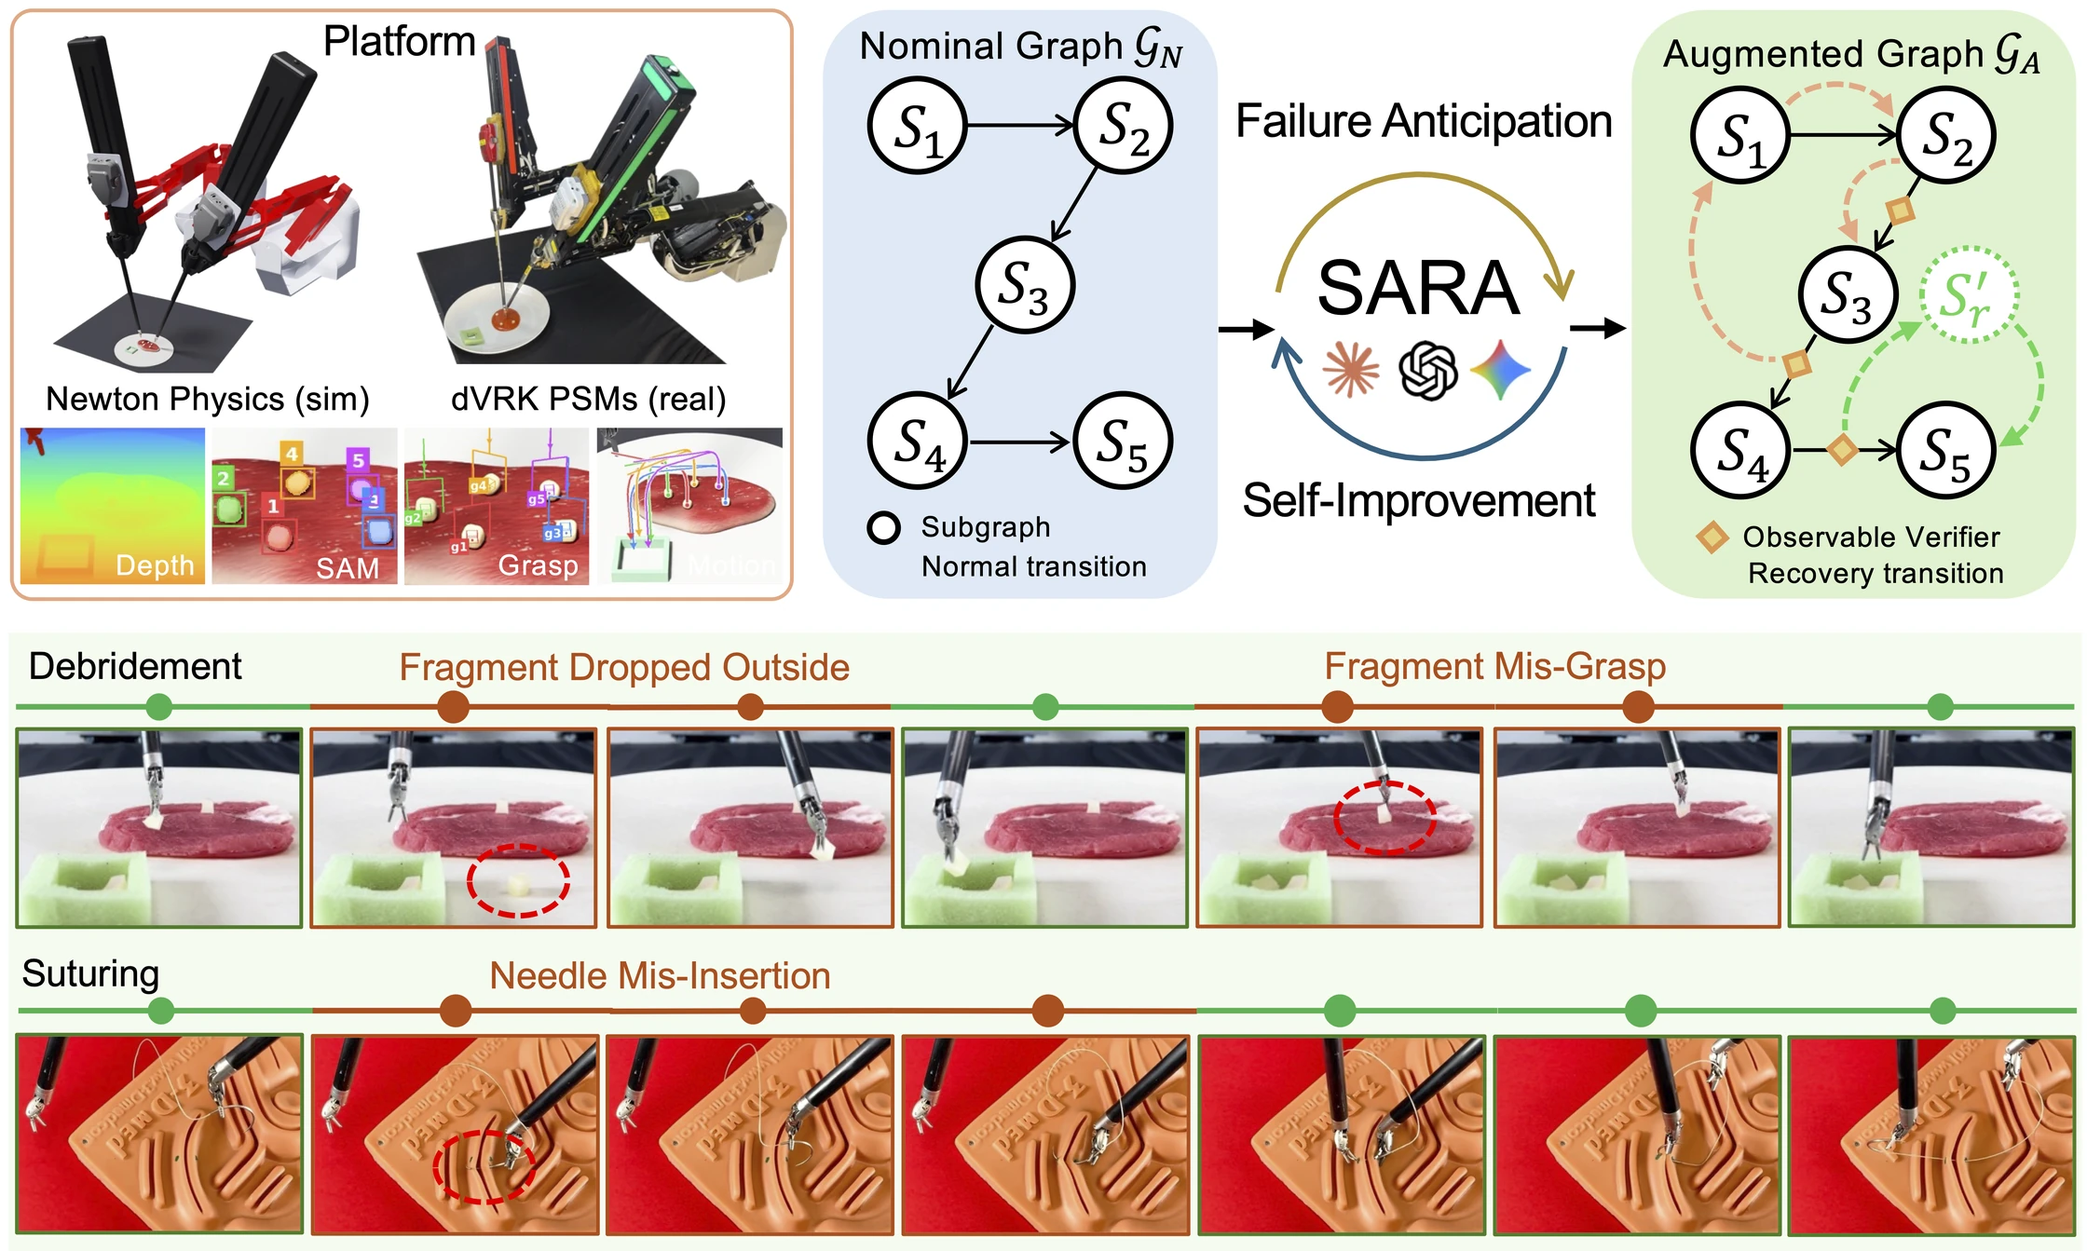
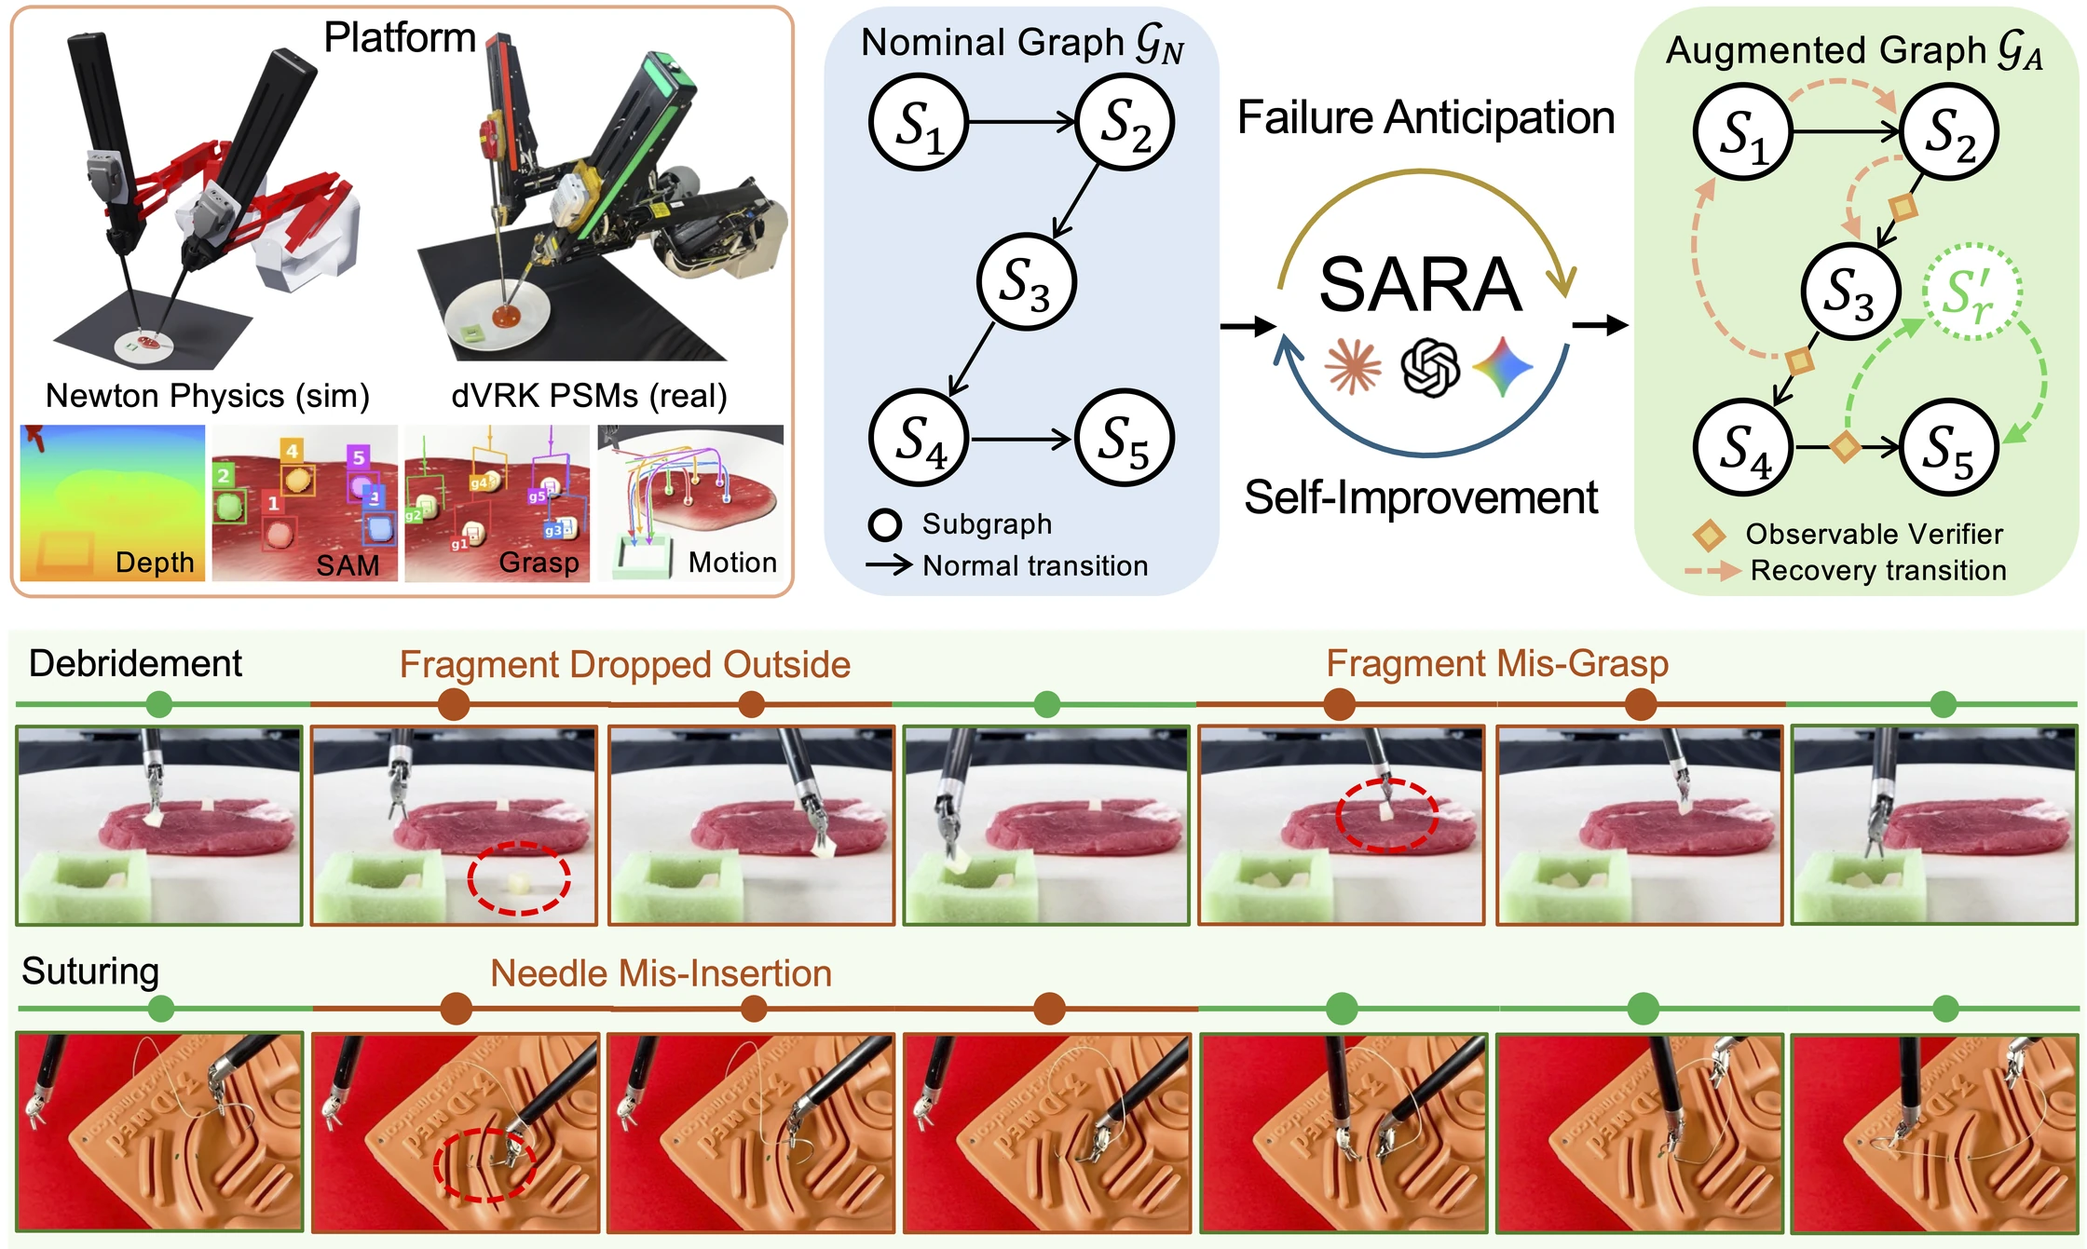
Update overview figure and refine website labels

diff --git a/index.html b/index.html
@@ -14,18 +14,18 @@
 <meta property="og:title" content="SARA: Toward Surgical Agentic Robotics for Resilient Manipulation">
 <meta property="og:description" content="SARA anticipates failure modes, synthesizes observable verifiers, and plans recovery chains for resilient surgical manipulation in simulation and on the physical dVRK platform.">
 <meta property="og:url" content="https://surgical-robotics.github.io/SARA/">
-<meta property="og:image" content="https://surgical-robotics.github.io/SARA/static/images/abstract.png?v=8a751f449e7c">
+<meta property="og:image" content="https://surgical-robotics.github.io/SARA/static/images/abstract.png?v=ab034c97456b">
 <meta name="twitter:card" content="summary_large_image">
 <meta name="twitter:title" content="SARA: Toward Surgical Agentic Robotics for Resilient Manipulation">
 <meta name="twitter:description" content="SARA anticipates failure modes, synthesizes observable verifiers, and plans recovery chains for resilient surgical manipulation in simulation and on the physical dVRK platform.">
-<meta name="twitter:image" content="https://surgical-robotics.github.io/SARA/static/images/abstract.png?v=8a751f449e7c">
+<meta name="twitter:image" content="https://surgical-robotics.github.io/SARA/static/images/abstract.png?v=ab034c97456b">
 <meta name="citation_title" content="SARA: Toward Surgical Agentic Robotics for Resilient Manipulation">
 <!-- Add confirmed authors, venue, paper URL, and final BibTeX when available. -->
-<link rel="stylesheet" href="static/css/index.css?v=state-panels-30">
+<link rel="stylesheet" href="static/css/index.css?v=active-group-nav-31">
 <script defer src="static/js/index.js?v=eager-buffer-visible-playback-7"></script>
 <script defer src="static/js/video-states.js?v=deferred-sources-12"></script>
 <script defer src="static/js/media-controls.js?v=6"></script>
-<script type="application/ld+json">{"@context": "https://schema.org", "@type": "ScholarlyArticle", "headline": "SARA: Toward Surgical Agentic Robotics for Resilient Manipulation", "description": "SARA anticipates failure modes, synthesizes observable verifiers, and plans recovery chains for resilient surgical manipulation in simulation and on the physical dVRK platform.", "url": "https://surgical-robotics.github.io/SARA/", "image": "https://surgical-robotics.github.io/SARA/static/images/abstract.png?v=8a751f449e7c"}</script>
+<script type="application/ld+json">{"@context": "https://schema.org", "@type": "ScholarlyArticle", "headline": "SARA: Toward Surgical Agentic Robotics for Resilient Manipulation", "description": "SARA anticipates failure modes, synthesizes observable verifiers, and plans recovery chains for resilient surgical manipulation in simulation and on the physical dVRK platform.", "url": "https://surgical-robotics.github.io/SARA/", "image": "https://surgical-robotics.github.io/SARA/static/images/abstract.png?v=ab034c97456b"}</script>
 </head>
 <body>
 <div class="reading-progress" aria-hidden="true"><span></span></div>
@@ -41,7 +41,7 @@
     <h1><span class="hero-name">SARA<span class="visually-hidden">:</span></span> <span class="hero-title">Toward Surgical Agentic Robotics for Resilient Manipulation</span></h1>
     <ul class="hero-tags" aria-label="SARA highlights">
       <li>Surgical agentic robotics</li>
-      <li>Sim-to-real</li>
+      <li>Real-to-sim-to-real</li>
       <li><strong>8</strong> simulation tasks</li>
       <li><strong>6</strong> real-world tasks</li>
     </ul>
@@ -52,7 +52,7 @@
 <section class="section overview" id="abstract"><div class="container">
 <div class="section-heading"><h2>Abstract</h2></div>
 <div class="abstract-copy"><p>Augmented dexterity promises to relieve surgeon workload and improve surgical performance, yet it still requires expert algorithmic engineering for each manipulation task. Can emerging coding agents deliver augmented dexterity across tasks, while remaining reliable under failure? In this work, we introduce SARA (Surgical Agent for Resilient Autonomy), an agentic surgical robotics framework that executes diverse manipulation tasks autonomously and resiliently. Given a nominal task graph composed of reusable surgical skills, SARA proactively anticipates how the skills may fail and induces those failures in a physics-based sandbox. From the induced and naturally occurring failures, it writes observable verifiers for the skills and proposes failure-specific recovery strategies, either by re-executing upstream skills of the nominal graph or by escalating to the broader skill library. SARA then rehearses the candidate augmented graph in the sandbox, refining the ineffective strategies in a self-improvement loop, and retains only the validated verifiers and recoveries in the final augmented graph. We evaluate SARA on 8 surgical tasks in Newton-based simulation and 6 tasks on a physical da Vinci robot.</p></div>
-<figure class="research-figure"><button class="figure-zoom" type="button" data-image="static/images/abstract.png?v=8a751f449e7c" aria-label="Enlarge SARA system overview"><img src="static/images/abstract-1120.webp?v=fb67f9fc65f9" srcset="static/images/abstract-1120.webp?v=fb67f9fc65f9 1120w, static/images/abstract-2240.webp?v=946125c9c0fd 2240w" sizes="(max-width: 760px) calc(100vw - 36px), (max-width: 1184px) calc(100vw - 64px), 1120px" alt="SARA system overview: a nominal surgical skill graph is augmented with observable verifiers and recovery chains through failure anticipation and self-improvement in the Newton dVRK sandbox. Debridement and suturing sequences show recovery from dropped fragments, missed grasps, and needle insertion failures on the physical robot." width="2240" height="1343" loading="eager" fetchpriority="high" decoding="async"><span class="zoom-hint">Enlarge figure ↗</span></button><figcaption><strong>SARA surgical agentic system overview.</strong> Starting from a nominal graph <math aria-label="G subscript N"><msub><mi>𝒢</mi><mi>N</mi></msub></math> of reusable surgical skills, SARA proactively anticipates failure modes, synthesizes observable verifiers, and plans corresponding recovery chains to construct an augmented directed graph <math aria-label="G subscript A"><msub><mi>𝒢</mi><mi>A</mi></msub></math>. Through iterative self-improvement and validation in a Newton physics-based dVRK sandbox, SARA retains validated verifiers and recovery chains before deploying the augmented graph on the physical dVRK platform for resilient task execution. The debridement and suturing sequences illustrate recovery from dropped fragments, missed grasps, and needle insertion failures.</figcaption></figure>
+<figure class="research-figure"><button class="figure-zoom" type="button" data-image="static/images/abstract.png?v=ab034c97456b" aria-label="Enlarge SARA system overview"><img src="static/images/abstract-1120.webp?v=a1dda1146ae0" srcset="static/images/abstract-1120.webp?v=a1dda1146ae0 1120w, static/images/abstract-2240.webp?v=b459b93bd007 2240w" sizes="(max-width: 760px) calc(100vw - 36px), (max-width: 1184px) calc(100vw - 64px), 1120px" alt="SARA system overview: a nominal surgical skill graph is augmented with observable verifiers and recovery chains through failure anticipation and self-improvement in the Newton dVRK sandbox. Debridement and suturing sequences show recovery from dropped fragments, missed grasps, and needle insertion failures on the physical robot." width="2240" height="1341" loading="eager" fetchpriority="high" decoding="async"><span class="zoom-hint">Enlarge figure ↗</span></button><figcaption><strong>SARA surgical agentic system overview.</strong> Starting from a nominal graph <math aria-label="G subscript N"><msub><mi>𝒢</mi><mi>N</mi></msub></math> of reusable surgical skills, SARA proactively anticipates failure modes, synthesizes observable verifiers, and plans corresponding recovery chains to construct an augmented directed graph <math aria-label="G subscript A"><msub><mi>𝒢</mi><mi>A</mi></msub></math>. Through iterative self-improvement and validation in a Newton physics-based dVRK sandbox, SARA retains validated verifiers and recovery chains before deploying the augmented graph on the physical dVRK platform for resilient task execution. The debridement and suturing sequences illustrate recovery from dropped fragments, missed grasps, and needle insertion failures.</figcaption></figure>
 </div></section>
 <section class="section method-section" id="method"><div class="container">
 <p class="method-question">Can emerging coding agents deliver augmented dexterity across diverse surgical tasks and remain reliable when failures occur?</p>
@@ -60,7 +60,7 @@
 <figure class="research-figure"><button class="figure-zoom" type="button" data-image="static/images/sara_pipeline.png" aria-label="Enlarge the SARA method pipeline"><img src="static/images/sara_pipeline.png" alt="SARA agentic harness: Failure Anticipation and Recovery Chain agents augment a nominal task graph using natural and induced Newton rollouts, validate observable verifiers against privileged oracles, and refine recovery chains to produce the final augmented graph." width="2907" height="1441" loading="lazy" decoding="async"><span class="zoom-hint">Enlarge figure ↗</span></button><figcaption><strong>SARA:</strong> Two specialized agents coordinate the augmentation and refinement of a nominal task graph <math aria-label="G subscript N"><msub><mi>𝒢</mi><mi>N</mi></msub></math>. During <em>SARA Augmentation</em>, the <em>Failure Anticipation</em> agent proposes skill-level failure modes and actions to induce them in the Newton sandbox. The <em>Recovery Chain</em> agent analyzes natural and induced rollouts, synthesizes observable verifiers evaluated against privileged oracles, and proposes candidate recovery chains, yielding a candidate augmented graph <math aria-label="G subscript A star"><msubsup><mi>𝒢</mi><mi>A</mi><mo>∗</mo></msubsup></math>. During <em>SARA Refinement</em>, the candidate graph is rehearsed in the sandbox, and ineffective recovery chains are iteratively revised by tracing upstream skills and tuning adjustable parameters. Only validated verifiers and recovery chains are retained in the final augmented graph <math aria-label="G subscript A"><msub><mi>𝒢</mi><mi>A</mi></msub></math> for task execution with failure recovery.</figcaption></figure>
 </div></section>
 <section class="section results-section" id="simulation"><div class="container">
-<div class="section-heading"><h2>Simulation</h2><p>Eight surgical tasks in the Newton physics-based sandbox.</p></div>
+<div class="section-heading"><h2>Simulation</h2><p>Eight surgical tasks in Newton-based simulation.</p></div>
 <nav class="gallery-nav" aria-label="Simulation demonstrations"><a href="#sim-tasks" data-category="normal"><span class="nav-mark"><span class="nav-index">1</span><img class="nav-icon" src="static/images/group-normal.svg?v=simple-2" width="32" height="32" alt="" aria-hidden="true"></span> <span>Normal Execution</span></a><a href="#sim-recovery" data-category="recovery"><span class="nav-mark"><span class="nav-index">2</span><img class="nav-icon" src="static/images/group-recovery.svg?v=amber-red-3" width="32" height="32" alt="" aria-hidden="true"></span> <span>Failure Recovery</span></a></nav>
 <section class="results-group" data-category="normal" id="sim-tasks" aria-labelledby="sim-tasks-title">
  <div class="group-heading"><h3 id="sim-tasks-title"><span class="group-index">1</span> <span>Normal Execution</span></h3><div class="state-legend" role="group" aria-label="Video phase legend"><span><i class="legend-dot normal" aria-hidden="true"></i>Normal Execution</span></div></div>

diff --git a/static/css/index.css b/static/css/index.css
@@ -70,13 +70,13 @@ h3 { line-height: 1.25; letter-spacing: -.025em; }
 .method-question { width: 100%; margin-bottom: 48px; padding-bottom: 40px; border-bottom: 1px solid var(--line); font-size: clamp(24px, 3vw, 34px); font-style: italic; font-weight: 400; line-height: 1.45; text-align: justify; text-align-last: left; }
 /* Each gallery has a local phase legend; the videos retain synchronized labels. */
 .gallery-nav { position: sticky; top: 72px; z-index: 20; display: flex; align-items: stretch; gap: 10px; padding: 7px 0; background: var(--paper); border-block: 1px solid var(--line); min-height: 70px; }
-.gallery-nav a { display: flex; flex: 1; min-width: 0; align-items: center; justify-content: center; gap: 10px; min-height: 54px; padding: 10px 14px; border: 1px solid var(--nav-outline); border-radius: 6px; background: var(--group-bg); font-size: 15px; font-weight: 550; line-height: 1.4; text-align: center; transition: background .2s, color .2s, box-shadow .2s; }
-.gallery-nav a:hover { background: var(--nav-active-bg); }
-.gallery-nav a[aria-current] { color: var(--group-ink, var(--group-accent)); background: var(--nav-active-bg); box-shadow: inset 0 -3px var(--group-accent); }
+.gallery-nav a { display: flex; flex: 1; min-width: 0; align-items: center; justify-content: center; gap: 10px; min-height: 54px; padding: 10px 14px; border: 1px solid var(--line); border-radius: 6px; background: var(--white); color: var(--muted); font-size: 15px; font-weight: 550; line-height: 1.4; text-align: center; transition: background .2s, color .2s, border-color .2s, box-shadow .2s; }
+.gallery-nav a:hover { background: #f4f6f4; color: var(--ink); }
+.gallery-nav a[aria-current] { color: var(--group-ink, var(--group-accent)); border-color: var(--nav-outline); background: var(--nav-active-bg); box-shadow: inset 0 -3px var(--group-accent); }
 .nav-mark { display: inline-flex; flex-shrink: 0; align-items: center; gap: 8px; }
-.nav-icon { width: 32px; height: 32px; }
-.nav-index { flex-shrink: 0; color: var(--group-ink, var(--group-accent)); font-weight: 650; font-variant-numeric: tabular-nums; }
-.gallery-nav a[aria-current] .nav-index { color: inherit; }
+.nav-icon { width: 32px; height: 32px; filter: grayscale(1); opacity: .6; }
+.nav-index { flex-shrink: 0; color: inherit; font-weight: 650; font-variant-numeric: tabular-nums; }
+.gallery-nav a[aria-current] .nav-icon { filter: none; opacity: 1; }
 .results-group { --group-bg: transparent; position: relative; isolation: isolate; scroll-margin-top: 68px; padding-top: 36px; }
 .results-group[data-category="normal"], .gallery-nav a[data-category="normal"] { --group-bg: #fafdfb; --group-accent: var(--green); --nav-outline: #dbe9e0; --nav-active-bg: var(--normal-bg); }
 .results-group[data-category="recovery"], .gallery-nav a[data-category="recovery"] { --group-bg: #fffdf7; --group-accent: var(--amber); --group-ink: var(--recovery-ink); --nav-outline: #eddfc7; --nav-active-bg: var(--recovery-bg); }

diff --git a/README.md b/README.md
@@ -68,7 +68,7 @@ and a public repository exposes its tracked media files.
 The page uses an editorial layout with white backgrounds, dark green typography,
 and green/amber/red phase colors. The text-only hero emphasizes the project
 name and full title, followed by four rounded keyword labels: Surgical agentic
-robotics, Sim-to-real, 8 simulation tasks, and 6 real-world tasks. Overview and Method retain the supplied scientific
+robotics, Real-to-sim-to-real, 8 simulation tasks, and 6 real-world tasks. Overview and Method retain the supplied scientific
 figures; no additional method diagram or interactive stepper is shown.
 
 The visible hero wordmark omits the colon; the complete title retains it in
@@ -84,12 +84,15 @@ Abstract and Method. Gallery numbering restarts within each section: Simulation
 uses 1 Normal Execution and 2 Failure Recovery; Real-world experiments uses
 1 Normal Execution, 2 Failure Recovery, and 3 External Disturbance. Compact
 number badges also appear in the group headings, with matching numbers in the
-sticky gallery navigation. Each link always carries its category's pale background,
-colored number, and a simple circular icon: a green check for normal execution,
-an amber return arrow for recovery, and a red incoming-force symbol for disturbance.
-The icons supplement the text labels and are hidden from assistive technology.
-The current group uses a stronger matching tint, colored text, and a bottom rule;
-hovering a link also strengthens its category tint.
+sticky gallery navigation. Inactive links use a white background, neutral border,
+gray text and numbers, and grayscale icons. Only the current group (identified by
+`aria-current` as the reader scrolls) receives its category color: green for normal
+execution, amber for recovery, or red for external disturbance. Its background,
+number, text, icon, border, and bottom rule highlight together. Hovering an inactive
+link gives neutral feedback without activating its category color. The simple
+circular icons are a check for normal execution, a return arrow for recovery, and
+an incoming-force symbol for disturbance. They supplement the text labels and are
+hidden from assistive technology.
 Horizontal rules, additional spacing, and very light category backgrounds separate
 groups: green (`#fafdfb`) for normal execution, yellow (`#fffdf7`) for recovery, and
 red (`#fffafa`) for external disturbance. These near-white backgrounds identify the
@@ -112,7 +115,7 @@ question introduces Method: "Can emerging coding agents deliver augmented dexter
 across diverse surgical tasks and remain reliable when failures occur?" The question shares
 the figure's full width, with justified text and no bold emphasis. The updated overview
 figure appears in full, including the debridement and suturing failure-recovery
-sequences. Responsive 1120px/2240px WebP previews (approximately 143/335 KB) load
+sequences. Responsive 1120px/2240px WebP previews (approximately 142/336 KB) load
 eagerly with high priority instead of the 9.7 MB PNG. The previews preserve the
 source color profile. Clicking first shows the cached preview, then replaces it
 with the original full-resolution image once loaded. Both research figures have
@@ -185,7 +188,7 @@ All other intervals show normal execution.
 
 ## Media preparation
 
-- Overview original: `static/images/abstract.png` (5542×3322, unchanged; loaded on zoom and used by social metadata).
+- Overview original: `static/images/abstract.png` (5533×3312, unchanged; loaded on zoom and used by social metadata).
 - Overview previews: `static/images/abstract-1120.webp` and `static/images/abstract-2240.webp` (responsive, content-versioned URLs).
 - Method: `static/images/sara_pipeline.png`.
 - Video posters: `static/images/posters/`.
